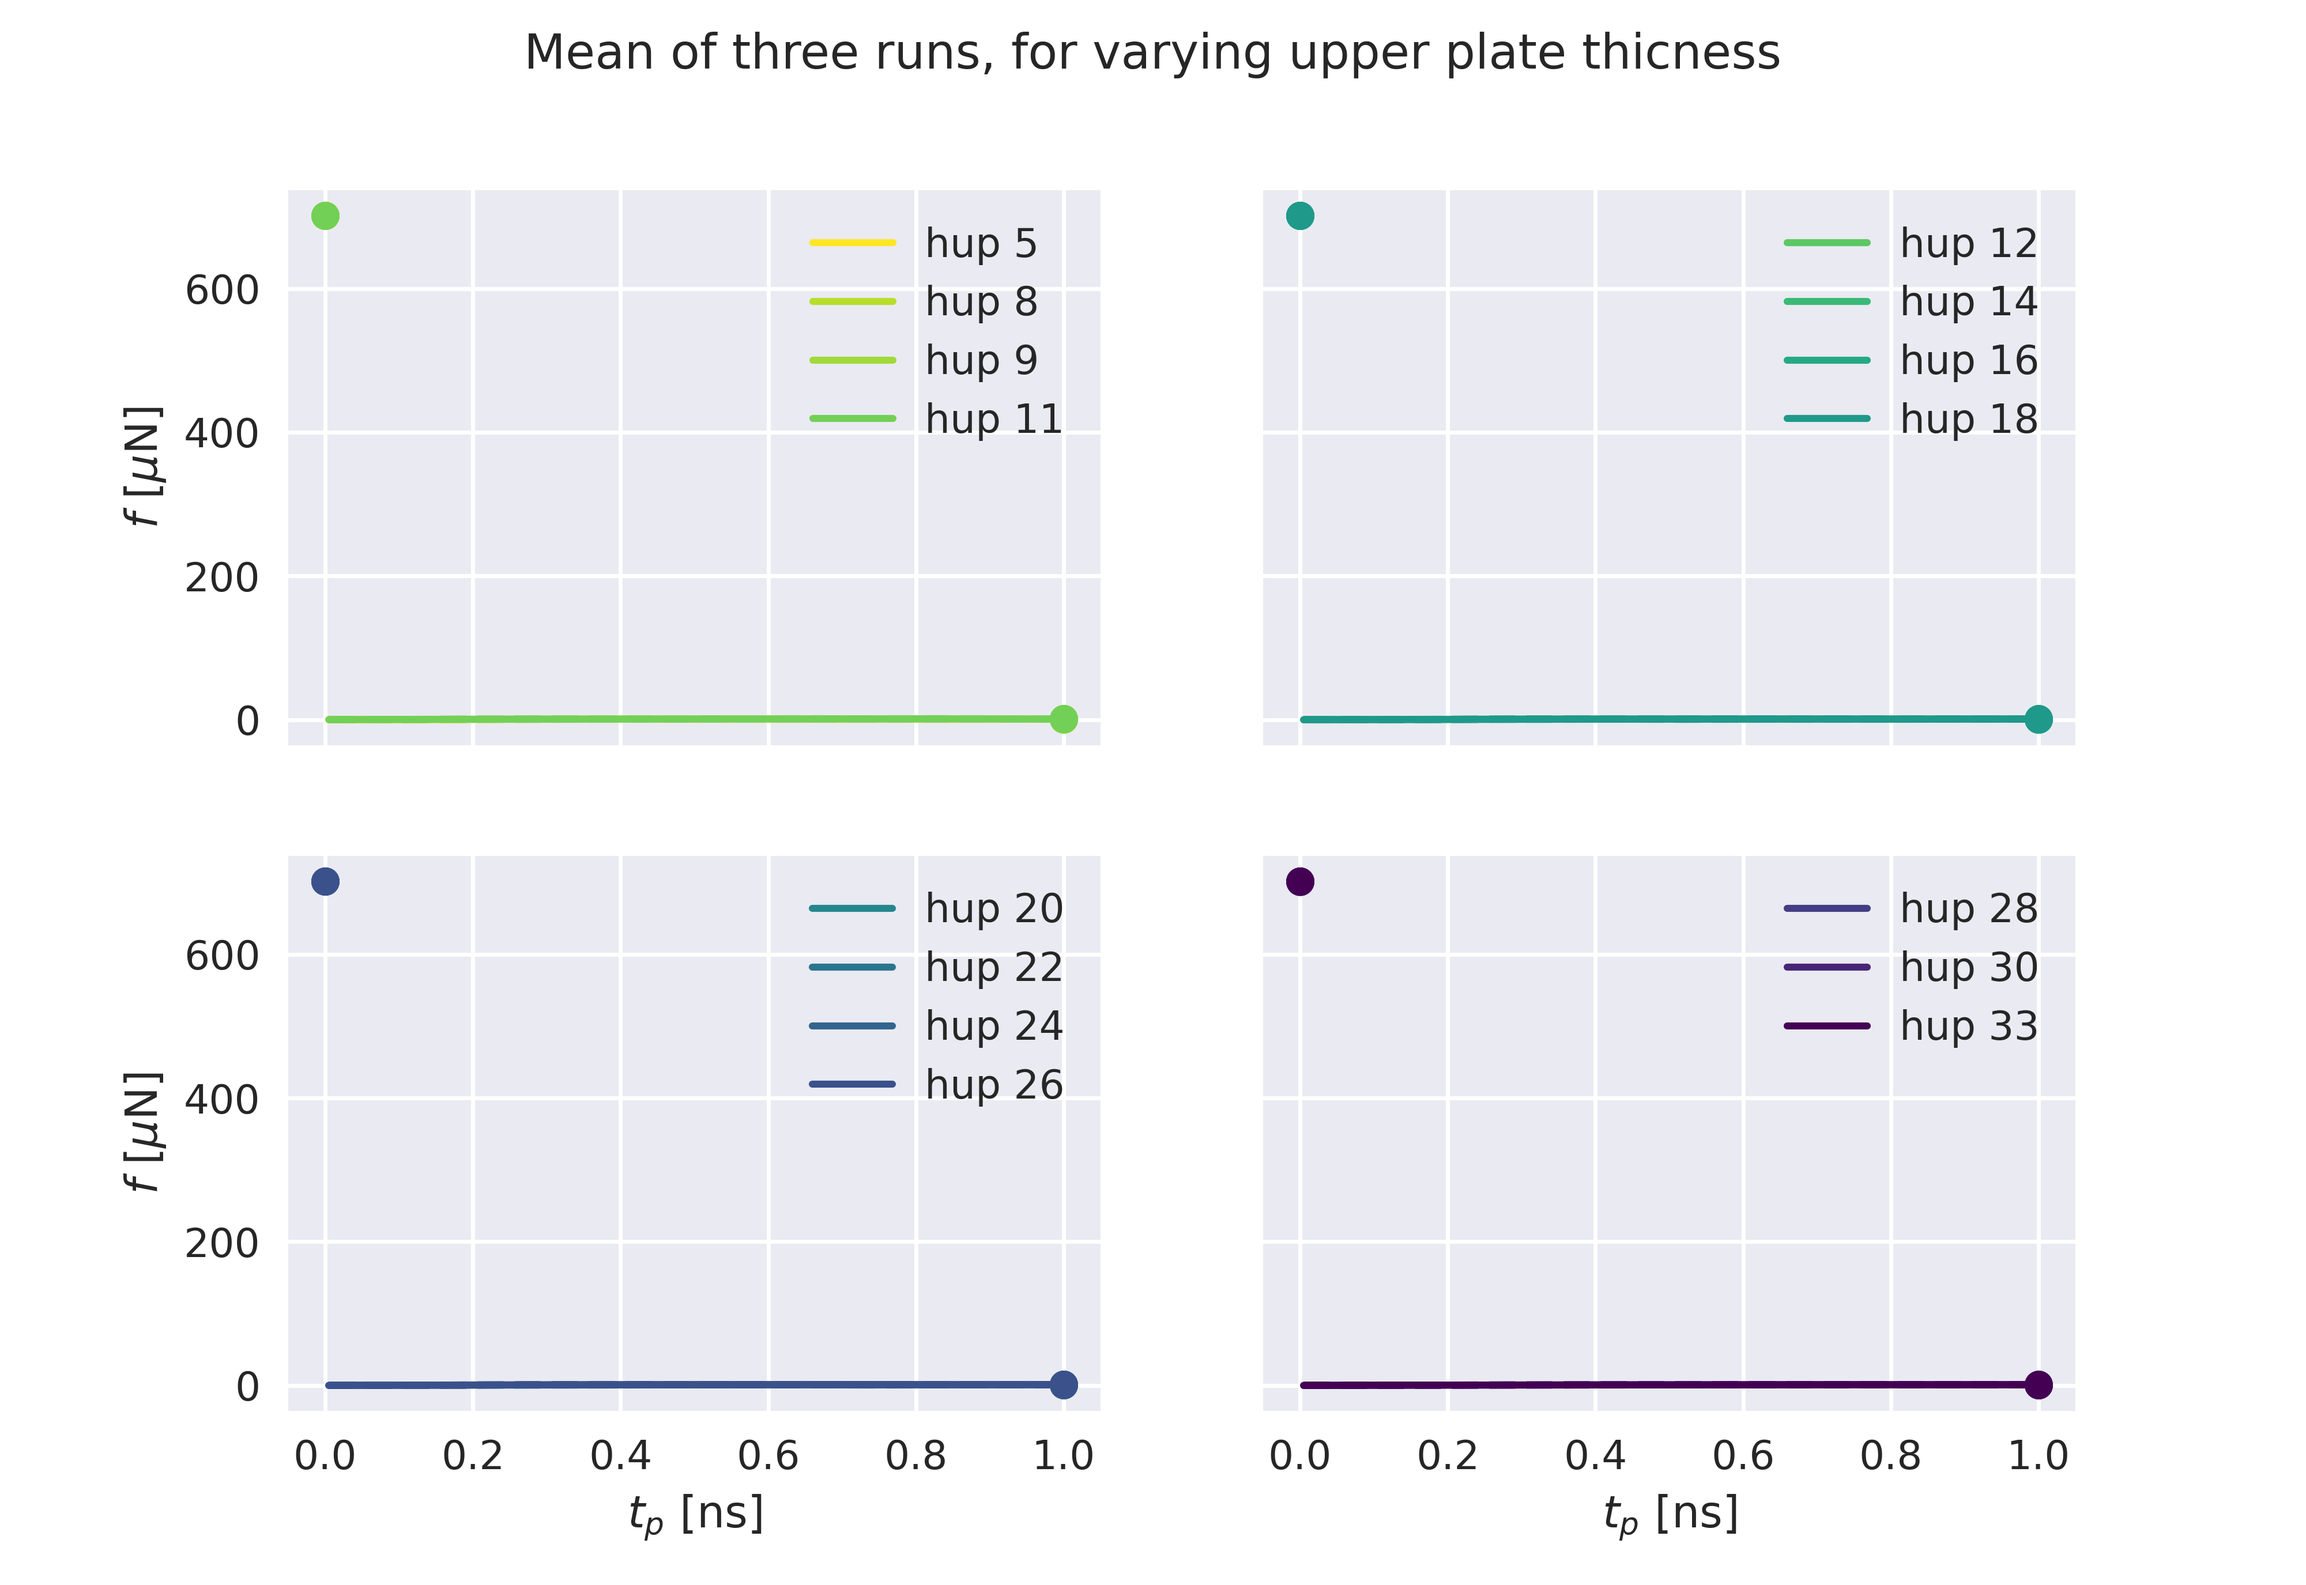
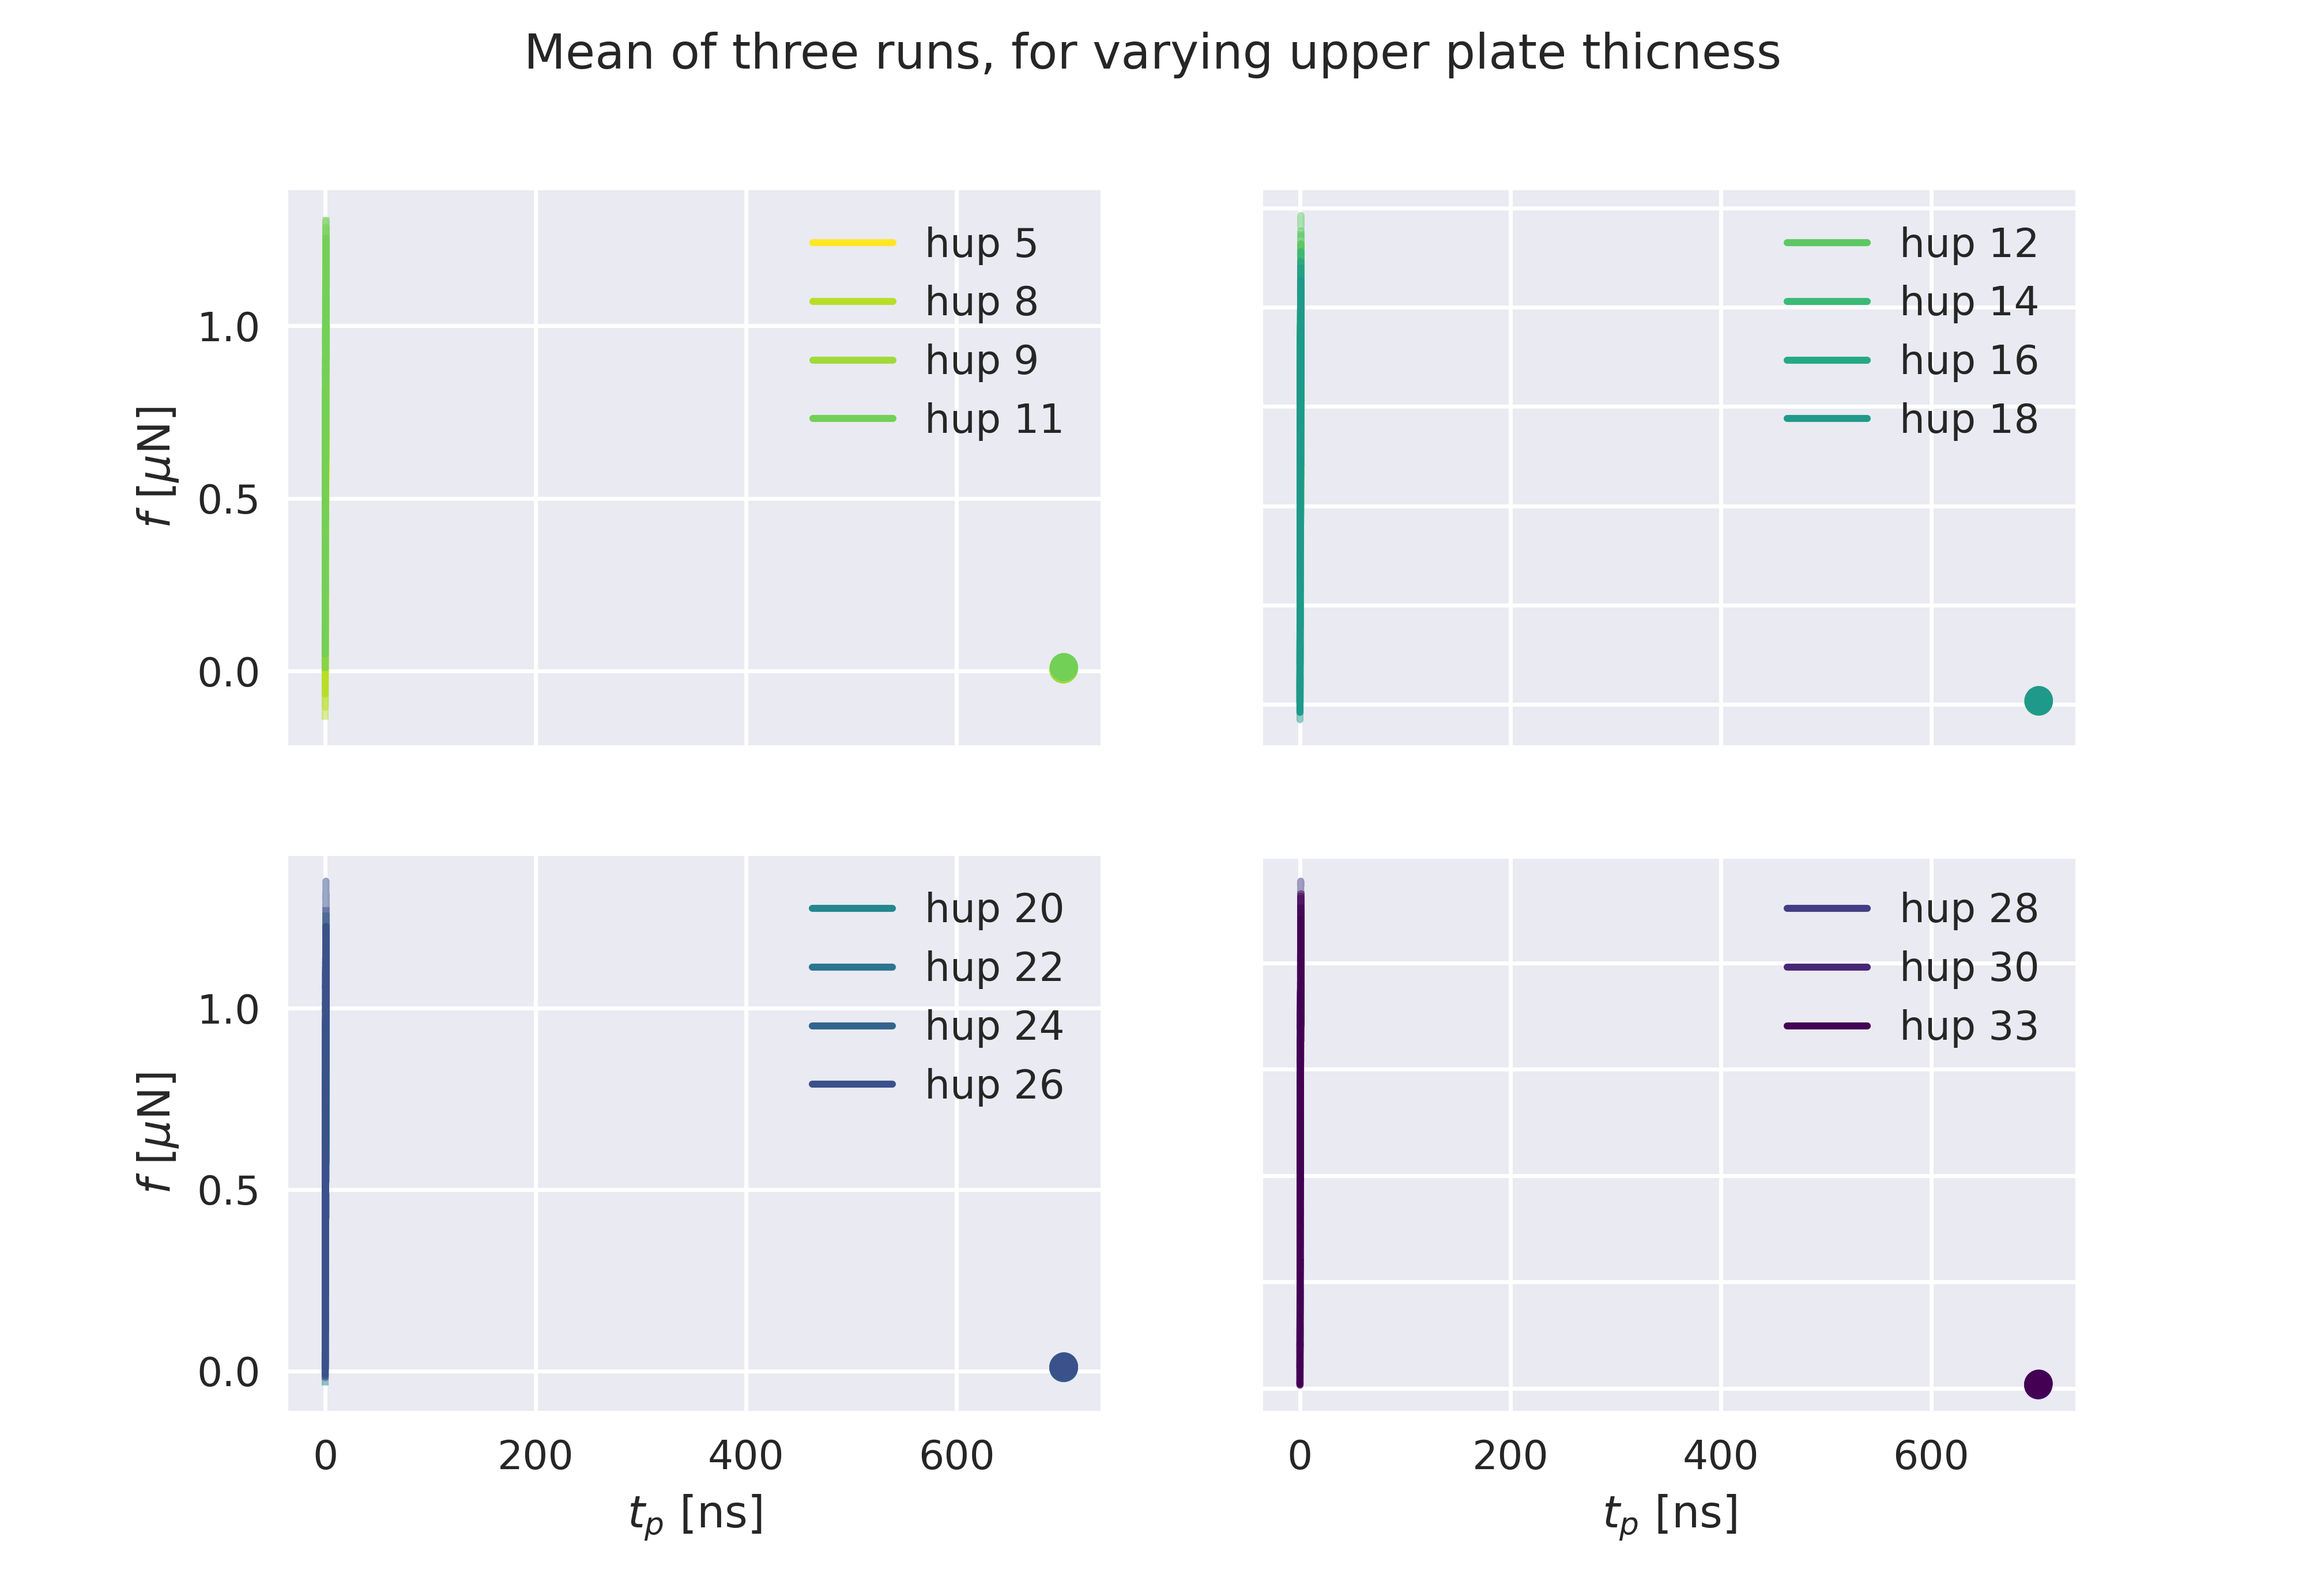
tried normalizing to see if it fits

diff --git a/python/plot/plot_load_curves.py b/python/plot/plot_load_curves.py
@@ -131,12 +131,12 @@ def plot_load_curves_as_funciton_of_top_thiccness():
     
             ms_all = load_max_static(temp, vel, force, orientation, grid,
                                      template_lc, template_ms, seed)
-            
+            print(ms_all)
             c = plt.cm.viridis((max_hup - hup[i])/(max_hup - min_hup + 0.01))
             axs[j].plot(load_curves[0,:,0], load_curves[0,:,1], c=c, label = f'hup {hup[i]}' )
             for l in range(len(seed)):
                 # ms_all contains tuples (time, ms) 
-                axs[j].plot(ms_all[l], 'o',c=c)
+                axs[j].plot(ms_all[l][0], ms_all[l][1]/100, 'o',c=c)
                 axs[j].plot(load_curves_all[l,:,0], load_curves_all[l,:,1], '--', alpha = 0.5, c=c)
             axs[j].legend()
             i += 1
